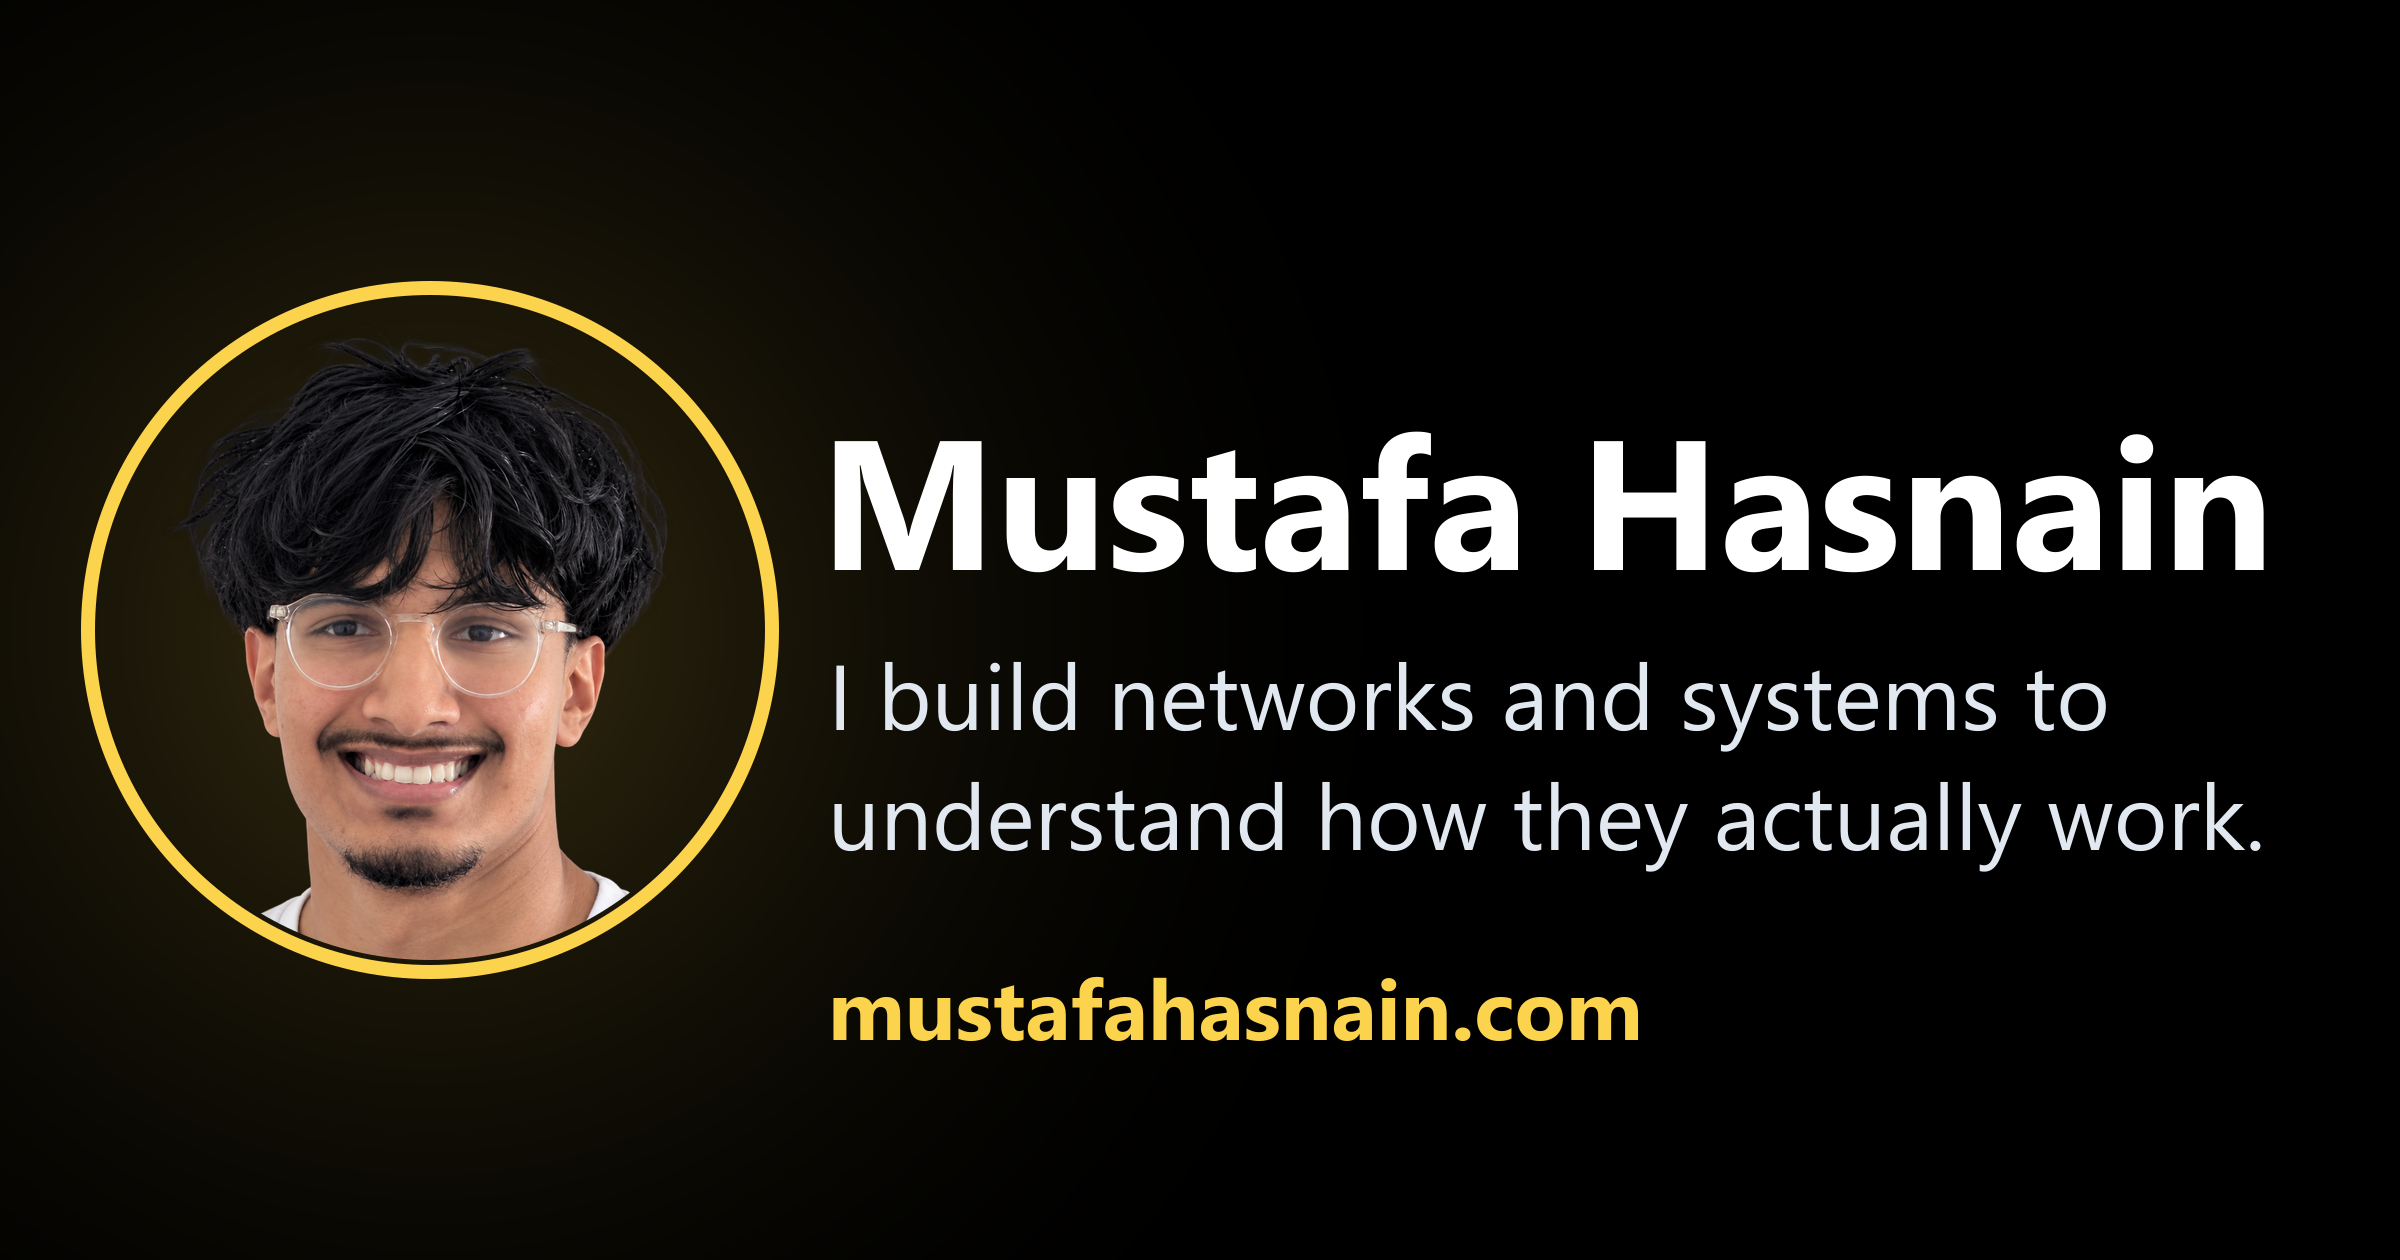
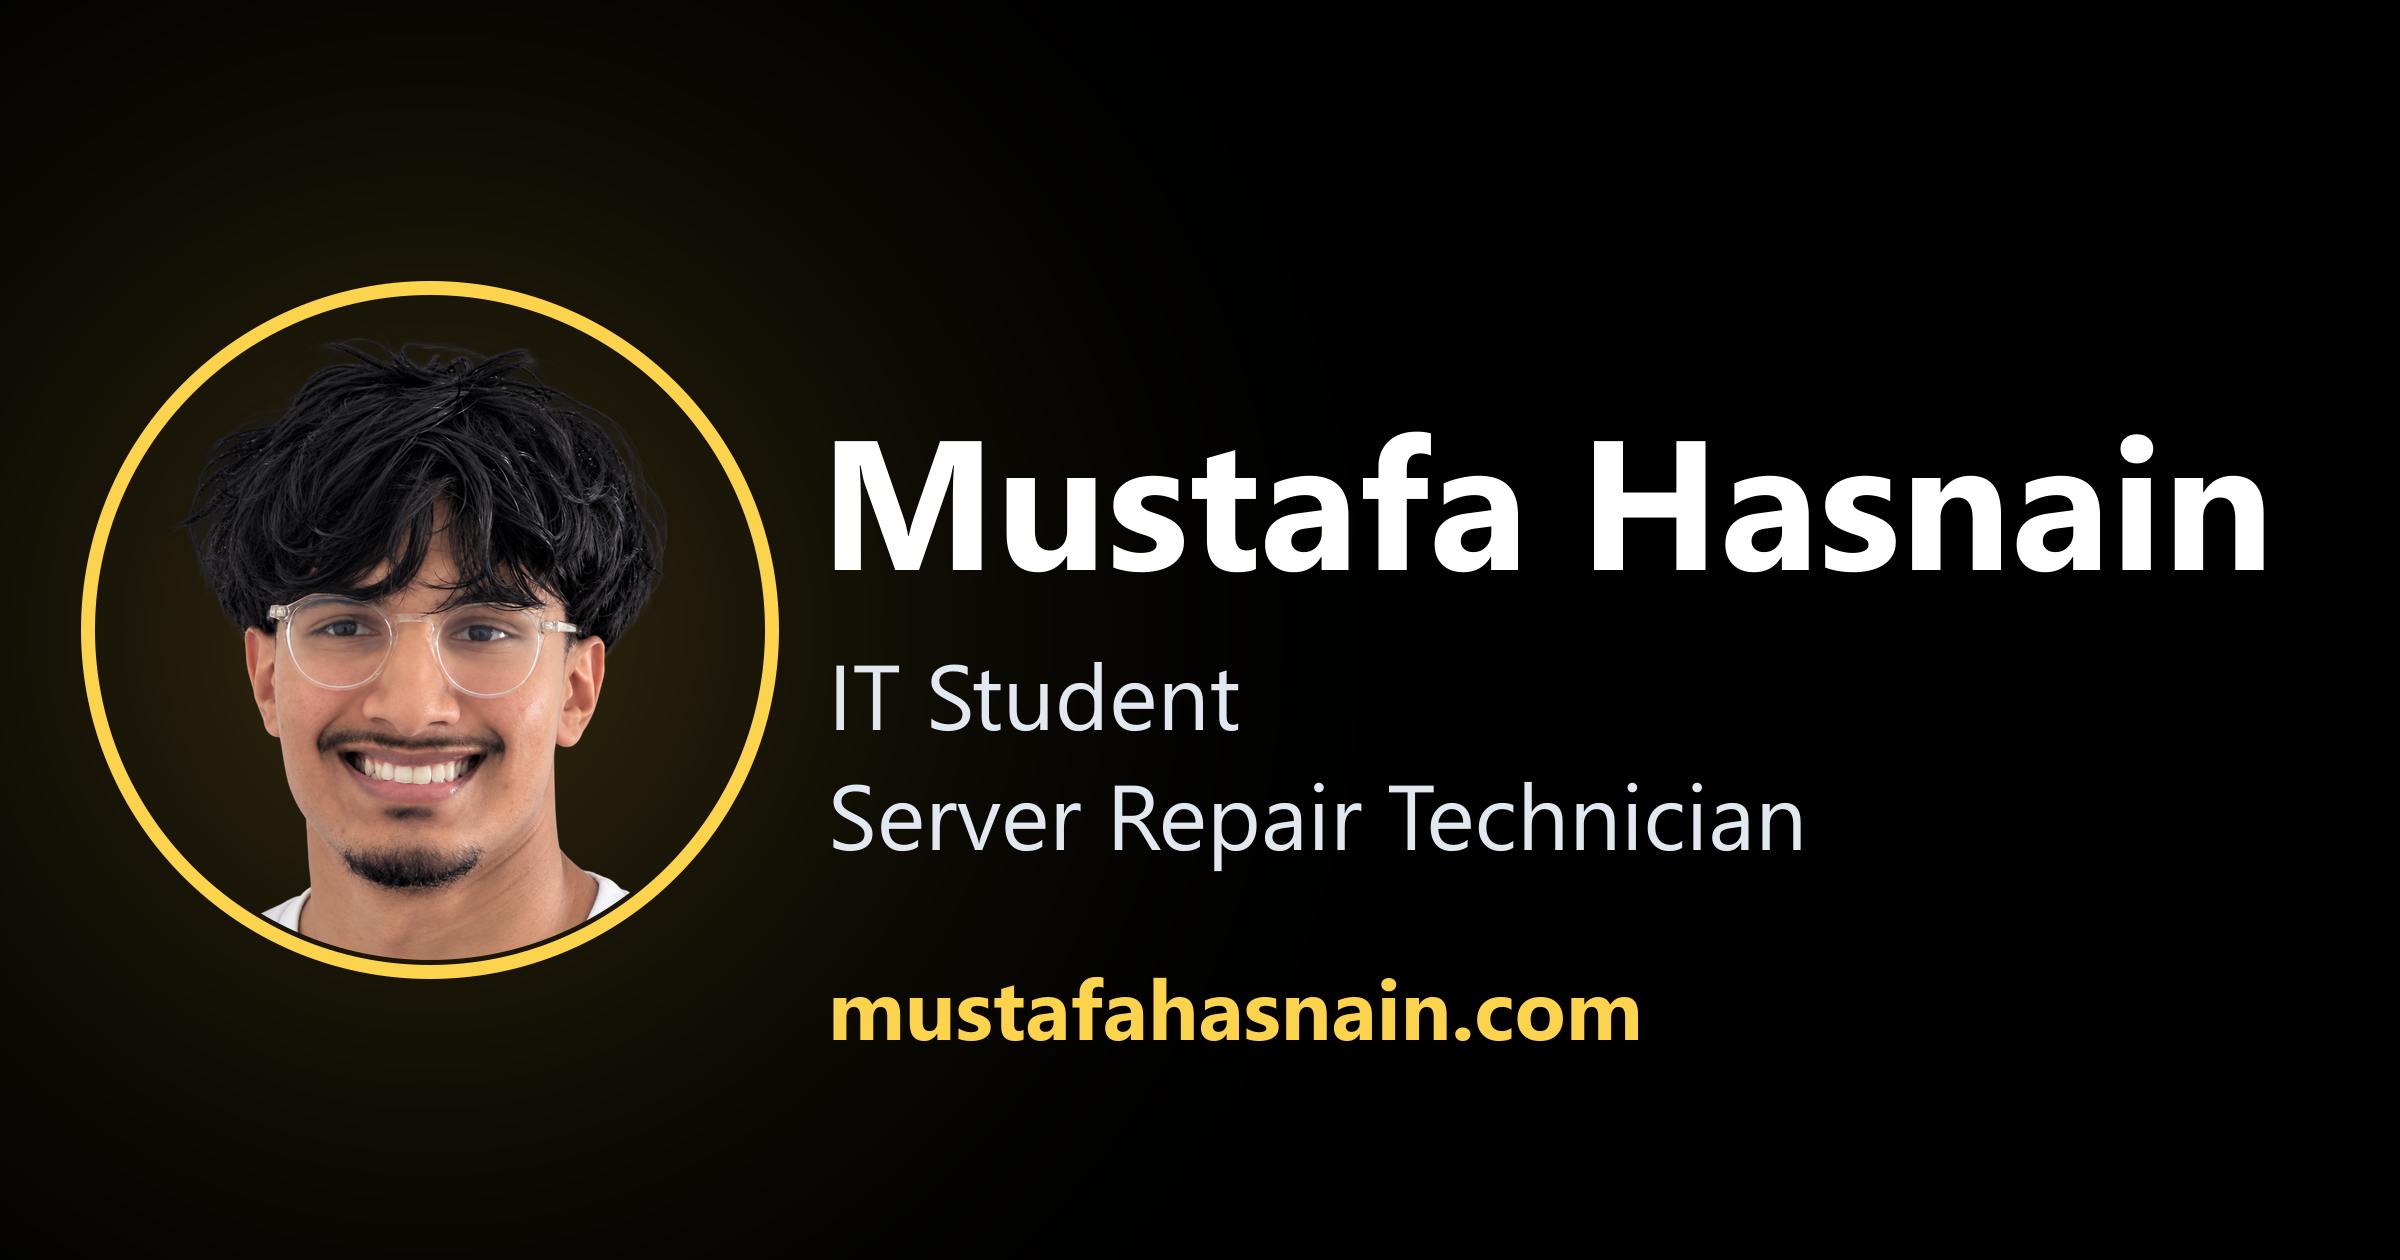
Update the landing page copy and share image

Changed region(s): [[0.3438, 0.619, 0.9375, 0.681], [0.3438, 0.5262, 0.875, 0.5881]]

diff --git a/docs/ROADMAP.md b/docs/ROADMAP.md
@@ -132,6 +132,12 @@ Recorded so they don't get relitigated, and dated so it's clear when they were m
   (2400x1260); the Post Inspector preview still looks soft but is readable. An Entra ID Lab card
   was added (facts taken from the resume); the skills list now says Linux, Switching and
   Virtualization instead of Ubuntu Linux, Ping, Traceroute and VirtualBox.
+- **2026-11-06 — The landing page names the current job.** Mustafa supplied new homepage copy: the
+  subhead is "IT Student | Server Repair Technician", and the text mentions his server repair
+  technician work (testing and troubleshooting data center GPUs) and the Entra ID connection. This
+  supersedes the 2026-09-29 decision to keep job titles and SMS InfoComm off the site text. The
+  employer's name is still not on the pages (it is on the resume PDF). JSON-LD has no `jobTitle`
+  field yet.
 
 ---
 
@@ -355,6 +361,4 @@ Recorded so they don't get picked up by accident.
 
 ## Open questions
 
-- SMS InfoComm (current GPU repair job) is on the downloadable resume but stays off the site's own
-  text. Revisit if that changes.
 - Which CLI topic is lesson one?
